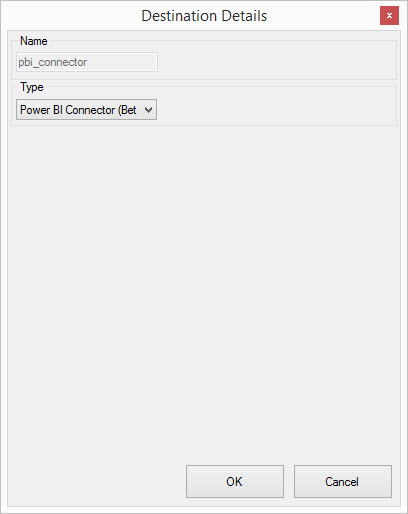
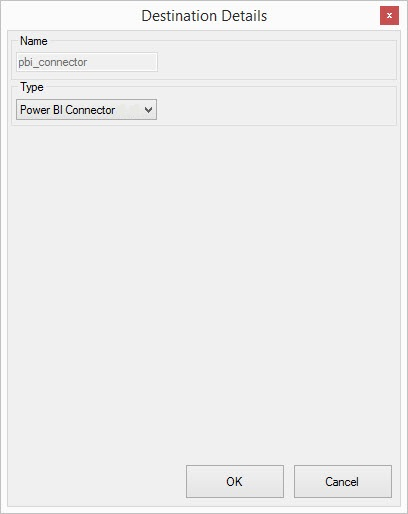
xu; pbi; DE - Anpassungen entspr. Review von YW

diff --git a/content/_de/xtract-universal/xu-zielumgebungen/Power-BI-Connector/pbi-custom-connector-einrichten.md b/content/_de/xtract-universal/xu-zielumgebungen/Power-BI-Connector/pbi-custom-connector-einrichten.md
@@ -12,25 +12,25 @@ old_url:
 ---
 
 
-Die Destination *Power BI Connector*in Xtract Universal funktioniert in Kombination mit der benutzerdefinierten Erweiterungsdatei für Power BI. Der Dateiname ist *XtractUniversalExtension.pqx*. Die Datei XtractUniversalExtension.pqx befindet sich im Ordner *powerbi* innerhalb des Installationsverzeichnisses von Xtract Universal.
+Die *Power BI Connector* Destination in Xtract Universal funktioniert in Kombination mit dem benutzerdefinierten Custom Connector für Power BI. Der Dateiname ist *XtractUniversalExtension.pqx*. Die Datei XtractUniversalExtension.pqx befindet sich im Ordner *powerbi* innerhalb des Installationsverzeichnisses von Xtract Universal.
 
-Der Power BI connector wurde entsprechend den Microsoft Richtlinien zum Erstellen von  [Custom Connectors in Power BI](https://docs.microsoft.com/de-de/power-bi/desktop-connector-extensibility) entwickelt.
+Der Power BI Connector wurde entsprechend den Microsoft Richtlinien zum Erstellen von [Custom Connectors in Power BI](https://docs.microsoft.com/de-de/power-bi/desktop-connector-extensibility) entwickelt.
 ### Power BI Custom Connector einrichten
 Wenn Sie die Anwendung *Power BI Desktop* verwenden, beachten Sie Folgendes: 
 1. Prüfen Sie, ob das Verzeichnis *[Documents]\Power BI Desktop\Custom Connectors* existiert.
 2. Erstellen Sie dieses Verzeichnis, falls es nicht existiert.
-3. Kopieren Sie die .pqx-Datei in das Verzeichnis *[Documents]\Power BI Desktop\Custom Connectors*.
+3. Kopieren Sie die Datei *XtractUniversalExtension.pqx* in das Verzeichnis *[Documents]\Power BI Desktop\Custom Connectors*.
 4. Starten Sie Power BI neu. <br>
-5. Ändern Sie die Sicherheitsstufe in der Option [Datenerweiterung](https://docs.microsoft.com/de-de/power-bi/desktop-connector-extensibility#data-extension-security) innerhalb von Power BI  auf *Allow any extension to be load without validation or warning (Alle Erweiterungen ohne Überprüfung oder Warnung laden)*. <br>
-Andernfalls wird die Datenquelle *Xtract Universal* in Power BI nicht sichtbar.
+5. Ändern Sie die Sicherheitsstufe in der Option [Datenerweiterung](https://docs.microsoft.com/de-de/power-bi/desktop-connector-extensibility#data-extension-security) innerhalb von Power BI  auf *Alle Erweiterungen ohne Überprüfung oder Warnung laden* (Allow any extension to be load without validation or warning). <br>
+Andernfalls wird die Datenquelle *Xtract Universal* in Power BI nicht angezeigt.
 
 ![powerbi-datasource](/img/content/XU_pbi_connector_xu_datasouce.png){:class="img-responsive"}
 
 ### Power BI mit Xtract Universal verbinden
 
 1. Wählen Sie Xtract Universal im Menu *Get Data*.
-2. Klicken Sie auf den *Connect* Button.
-3. Geben Sie die URL des Xtract Universal- Webservers.
+2. Klicken Sie auf die Schaltfläche *Connect*.
+3. Geben Sie die URL des Xtract Universal-Webservers an.
 ![powerbi-XU_URL](/img/content/XU_pbi_connector_XU_URL.jpg){:class="img-responsive"}
 
 Wenn Sie aufgefordert werden eine der folgenden Authentifizierungsmethoden auszuwählen: *Anonymous*, *Basic* or *Windows*, befolgen Sie die Handlungsanweisungen aus dem Abschnitt [Singe Sign On und SAP-Authentifizierung](./pbi-SSO).
@@ -40,6 +40,6 @@ Im Fenster Navigator werden alle *Power BI Connector*- Extraktionen von Xtract U
 5. Wählen Sie eine Extraktion aus der Liste. <br>
 Die Vorschau zeigt die SAP-Spaltenkofbezeichnungen und  Vorschaudaten abhängig vom Extraktionstyp, z.B. Echt-Daten oder Dummy-Daten.
 
-6. Klicken Sie den *Load* Button. <br>
+6. Klicken Sie auf die Schaltfläche *Load*. <br>
 Dies stößt eine Extraktion in Xtract Universal an und die Daten werden in Power BI geladen .
 

diff --git a/content/_de/xtract-universal/xu-zielumgebungen/Power-BI-Connector/pbi-script.md b/content/_de/xtract-universal/xu-zielumgebungen/Power-BI-Connector/pbi-script.md
@@ -11,22 +11,24 @@ lang: en_GB
 old_url:
 ---
 
-Anstatt von Power BI Custom Connector, können Sie auch den Custom Power Query M-script zum Verbinden von Power BI mit Xtract Universal verwenden. Power Query M-script ist in Form einer Text-Datei namens *loading script* bereitgestellt. Diese Datei befindet sich im Ordner *powerbi* innerhalb des Installationsverzeichnisses von Xtract Universal.
+Anstelle des Power BI Custom Connector, können Sie auch das Custom Power Query M-script zum Verbinden von Power BI mit Xtract Universal verwenden. Das Power Query M-script ist in Form einer Text-Datei namens *loading script* bereitgestellt. Diese Datei befindet sich im Ordner *powerbi* innerhalb des Installationsverzeichnisses von Xtract Universal.
 <br>
 ### Custom Power Query M-script einrichten
 
-**Achtung:** Power Query M-script und Power BI Custom Connector gehören nicht zusammen. Verwenden Sie entweder Power Query M-script **oder** Power BI Custom Connector.
+**Achtung:** Power Query M-script und Power BI Custom Connector gehören nicht zusammen. <br>
+Verwenden Sie entweder das Power Query M-script **oder** den Power BI Custom Connector.
 
 ### Power Query M-script in Power BI verwenden
 
-1.  Erstellen Sie einen Power BI-Bericht mithilfe eines *Blank Query* als Datenquelle.
-2. Öffnen Sie den *Advanced Editor*.
-3. Öffnen Sie den Xtract Universal *loading_script* in jedem beliebigen Texteditor.
-4. Kopieren Sie den kompletten Inhalt in das *Advanced Editor*-Fenster von Power BI.
-4. Ändern Sie die Werte in den Feldern *ExtractionName* und  *ServerURL* enstprechend dem Namen Ihrer Xtract Universal Extraktion und dem Webserver. **Achtung:** Vernwenden Sie nur die Extraktionen, die der *Power BI Connector* Destination in Xtract Universal zugewiesen sind.
-5. Schließen Sie den *Advanced Editor*.
-6. Klicken Sie den *Close & Apply* Button.
-7. Wenn Sie aufgefordert werden eine der folgenden Authentifizierungsmethoden auszuwählen: *Anonymous*, *Basic* or *Windows*, befolgen Sie die Handlungsanweisungen aus dem Abschnitt [Singe Sign On und SAP-Authentifizierung](./pbi-SSO).<br>
+1.  Erstellen Sie einen Power BI-Bericht mithilfe einer *Leeren Abfrage* (Blank Query) als Datenquelle.
+2. Öffnen Sie den *Erweiterten Editor* (Advanced Editor).
+3. Öffnen Sie das Xtract Universal-*loading_script* in jedem beliebigen Texteditor.
+4. Kopieren Sie den kompletten Inhalt in das Fenster des erweiterten Editors von Power BI.
+5. Ändern Sie die Werte in den Feldern *ExtractionName* und  *ServerURL* enstprechend dem Namen Ihrer Xtract Universal Extraktion und dem Webserver. <br>
+**Achtung:** Verwenden Sie nur die Extraktionen mit der *Power BI Connector* Destination.
+6. Schließen Sie den *Erweiterten Editor*.
+7. Klicken Sie die Schaltfläche *Fertig* (Close & Apply).
+8. Wenn Sie aufgefordert werden eine der folgenden Authentifizierungsmethoden auszuwählen: *Anonymous*, *Basic* or *Windows*, befolgen Sie die Handlungsanweisungen aus dem Abschnitt [Singe Sign On und SAP-Authentifizierung](./pbi-SSO).<br>
 ![M-Script](/img/content/XU_PowerQueryScript.png){:class="img-responsive"}
 ---
 ![PowerQueryEditor](/img/content/XU_PBI_PowerQueryEditor.png){:class="img-responsive"}

diff --git a/content/_de/xtract-universal/xu-zielumgebungen/Power-BI-Connector/pbi-SSO.md b/content/_de/xtract-universal/xu-zielumgebungen/Power-BI-Connector/pbi-SSO.md
@@ -11,13 +11,13 @@ lang: de_DE
 old_url:
 ---
 
-Beim erstmaligem Einrichten von der Xtract Universal-Datenquelle in Power BI, werden Sie aufgefordert Authentifizierungsmethoden auszuwählen.
+Beim erstmaligem Einrichten der Xtract Universal-Datenquelle in Power BI, werden Sie aufgefordert eine der folgenden Authentifizierungsmethoden auszuwählen:
 
-* *Anonymous*: Wählen Sie diese Option, wenn Ihre Xtract Universal-Servereinstellungen keine Authentifizierung brauchen, um eine Extraktion auszuführen.
-* *Basic*:  Wählen Sie diese Option, wenn bei einer Extraktion die SAP-Anmeldedaten eingegeben werden müssen. Dies kann in der SAP-Quelle oder in den Extraktionseinstellungen definiert werden. <br>
+* *Anonymous*: Wählen Sie diese Option, wenn Ihre Xtract Universal-Servereinstellungen keine Authentifizierung erfordern, um eine Extraktion auszuführen.
+* *Basic*:  Wählen Sie diese Option, wenn Xtract Universal beim Ausführen einer Extraktion die manuelle Eingabe der SAP-Anmeldedaten erfordert.<br>
 Tragen Sie Ihre SAP-Anmeldedaten in die entsprechenden Eingabefelder ein.
-* *Windows*: Wählen Sie diese Option, wenn Sie [SSO](https://help.theobald-software.com/de/xtract-universal/fortgeschrittene-techniken/sap-single-sign-on) verwenden, oder wenn ein eingeschränkter Zugang zu den Extraktionen in den Xtract Universal-Servereinstellungen definiert ist. 
+* *Windows*: Wählen Sie diese Option, wenn Sie [SSO](https://help.theobald-software.com/de/xtract-universal/fortgeschrittene-techniken/sap-single-sign-on) verwenden, oder wenn ein eingeschränkter Zugang zu den Extraktionen in den Xtract Universal-Servereinstellungen definiert ist. <br>
 Tragen Sie \<domain>\\\<Windows AD user> ins Feld *user* und Ihr Windows-Passwort ins Feld *Password* ein.
 
-Xtract Universal und die Destination *Power BI Connector* unsterstützen den Single Sign On (SSO) zu SAP. Wenn SSO korrekt konfiguriert ist, werden die Windows-Anmeldedaten von dem Power BI-Benutzer den SAP-Anmeldedaten zugeordnet (gemapped). Auf diese Weise wird die SAP-Authorisierung unterstützt und dem Benutzer werden nur die Daten angezeigt, die seiner Zugangsberechtigung entsprechen.
+Xtract Universal und die *Power BI Connector* Destination unsterstützen Single Sign On (SSO) zu SAP. Wenn SSO korrekt konfiguriert ist, werden die Windows-Anmeldedaten des Power BI-Benutzers den SAP-Anmeldedaten zugeordnet (gemapped). Auf diese Weise wird das SAP-Berechtigungskonzept unterstützt und dem Benutzer werden nur die Daten angezeigt, die seiner SAP-Berechtigung entsprechen.
 ![XU_PBI_EN_SSO](/img/content/XU_PBI_EN_SSO.png){:class="img-responsive"}

diff --git a/content/_de/xtract-universal/xu-zielumgebungen/Power-BI-Connector/pbi-services.md b/content/_de/xtract-universal/xu-zielumgebungen/Power-BI-Connector/pbi-services.md
@@ -16,15 +16,15 @@ old_url:
 
 Für die Verwendung von Power BI service benötigen Sie Folgendes:
 * Einen [Power BI account](https://powerbi.microsoft.com/en-us/landing/signin/).
-* Ein [Power BI on-premises Daten Gateway](https://powerbi.microsoft.com/en-us/gateway/).
+* Ein [Power BI On-Pemises Daten-Gateway](https://powerbi.microsoft.com/en-us/gateway/).
 
-Verbindung zu Xtract Universal kann mithilfe von Power Query M-script **oder** Power BI custom connector erstellt werden.
+Die Verbindung zu Xtract Universal kann mithilfe von Power Query M-script **oder** Power BI custom connector erstellt werden.
 <br>
-Verwendung von Power Query M-script benötigt keine weitere Konfiguration. <br>
+Die Verwendung von Power Query M-script benötigt keine weitere Konfiguration. <br>
 
 Wenn Sie den Power BI Custom Connector verwenden, gehen Sie so vor:
-1. Konfigurieren Sie das [on-premises Daten-Gateway](https://docs.microsoft.com/en-us/power-bi/service-gateway-custom-connectors).
-2. Konfigurieren Sie das Power BI Service Gateway to support custom data connectors.
+1. Konfigurieren Sie das [on-premises Datengateway](https://docs.microsoft.com/en-us/power-bi/service-gateway-custom-connectors).
+2. Konfigurieren Sie das Power BI Service Gateway, um die Unterstützung von Custom Connectors zu ermöglichen.
 
 
 ![datagw_custom_conn](/img/content/XU_PBI_datagateway_config.png){:class="img-responsive"}
@@ -39,9 +39,9 @@ Wenn Sie den Power BI Custom Connector verwenden, gehen Sie so vor:
 
 ![datagw_service_datasource](/img/content/XU_PBI_datagateway_service_datasource.png){:class="img-responsive"}
 
-**Data Source Name**: Tragen Sie einen beliebigen Namen für die Xtract Universal Power BI Datenquelle.
+**Data Source Name**: Tragen Sie einen beliebigen Namen für die Xtract Universal Power BI Datenquelle ein.
 
-**Data Source Type**: Wählen Sie die Extraktion *Xtract Universal Extraction* aus dem Dropdown-Menu. Wenn die Xtract Universal-Extraktion nicht in dem Drop-Down-Menu verfügbar ist, überprüfen Sie die Konfiguration im Abschnitt *Anforderungen* am Anfang der Seite.
+**Data Source Type**: Wählen Sie den Eintrag *Xtract Universal Extraction* aus dem Dropdown-Menu. Wenn der Eintrag Xtract Universal nicht in dem Drop-Down-Menu verfügbar ist, überprüfen Sie die Konfiguration im Abschnitt *Anforderungen* am Anfang der Seite.
 
 **Xtract Universal Server**: Tragen Sie die Adresse Ihres On-Premises Xtract Universal (Web-) Servers ein.
 

diff --git a/content/_de/xtract-universal/xu-zielumgebungen/Power-BI-Connector/pbi-fehlerbehebung.md b/content/_de/xtract-universal/xu-zielumgebungen/Power-BI-Connector/pbi-fehlerbehebung.md
@@ -10,7 +10,8 @@ weight: 8
 lang: en_GB
 old_url:
 ---
-Extraktionen von Xtract Universal, die große Datenmengen verarbeiten, können zahlreiche Aufrufe von Power BI zu Xtract Universal verursachen. Dieser Vorgang führt dazu, dass mehrfache Einträge für die gleiche Extraktion im Extraktions-Log erscheinen.
+Extraktionen von Xtract Universal, die große Datenmengen extrahieren, können zahlreiche Aufrufe von Power BI zu Xtract Universal verursachen. Dieser Vorgang führt dazu, dass mehrfache Einträge für die gleiche Extraktion
+im Extraktions-Log von Xtract Universal erscheinen.
 
 Um diese Verhaltensweise zu vermeiden,  erhöhen Sie die Größe des Zwischenspeichers (Cache).
 ![Power BI cache](/img/content/XU_PBI_PBI_Cache.png){:class="img-responsive"}
